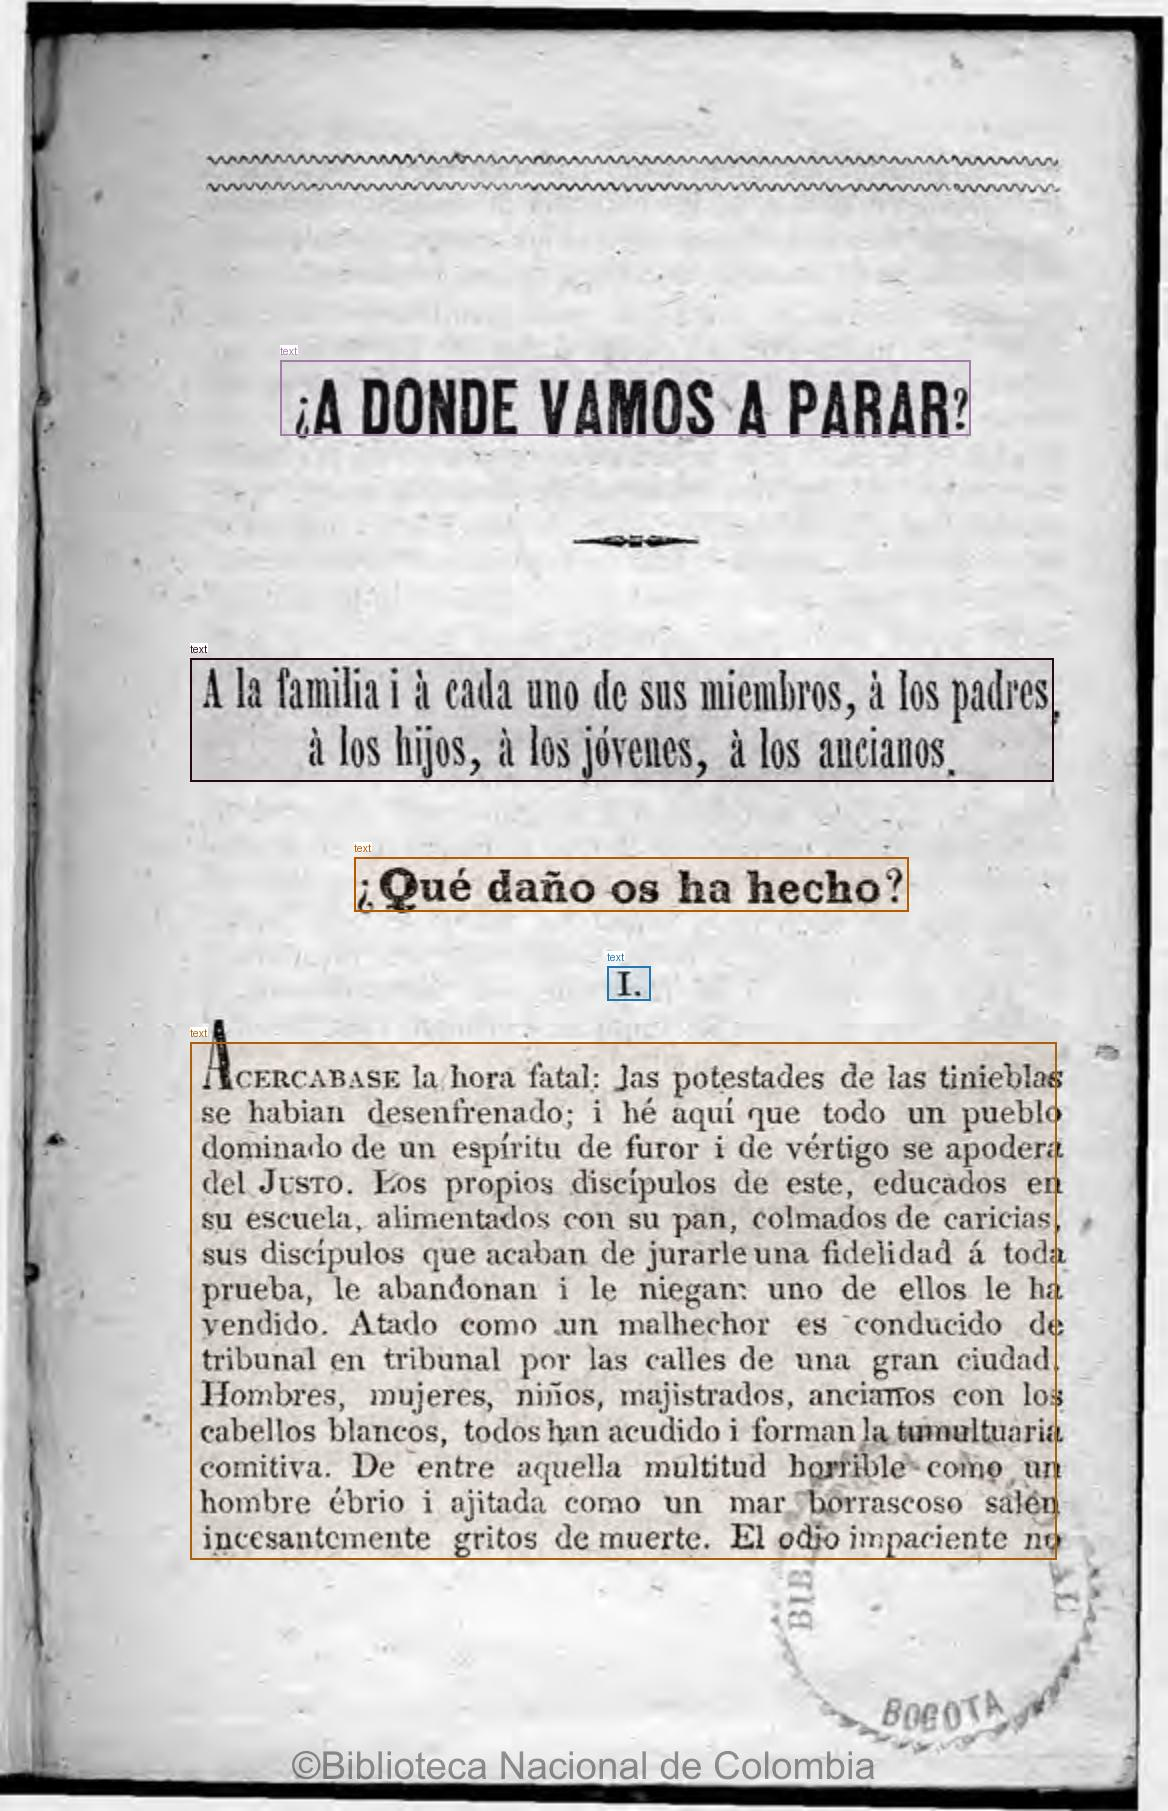
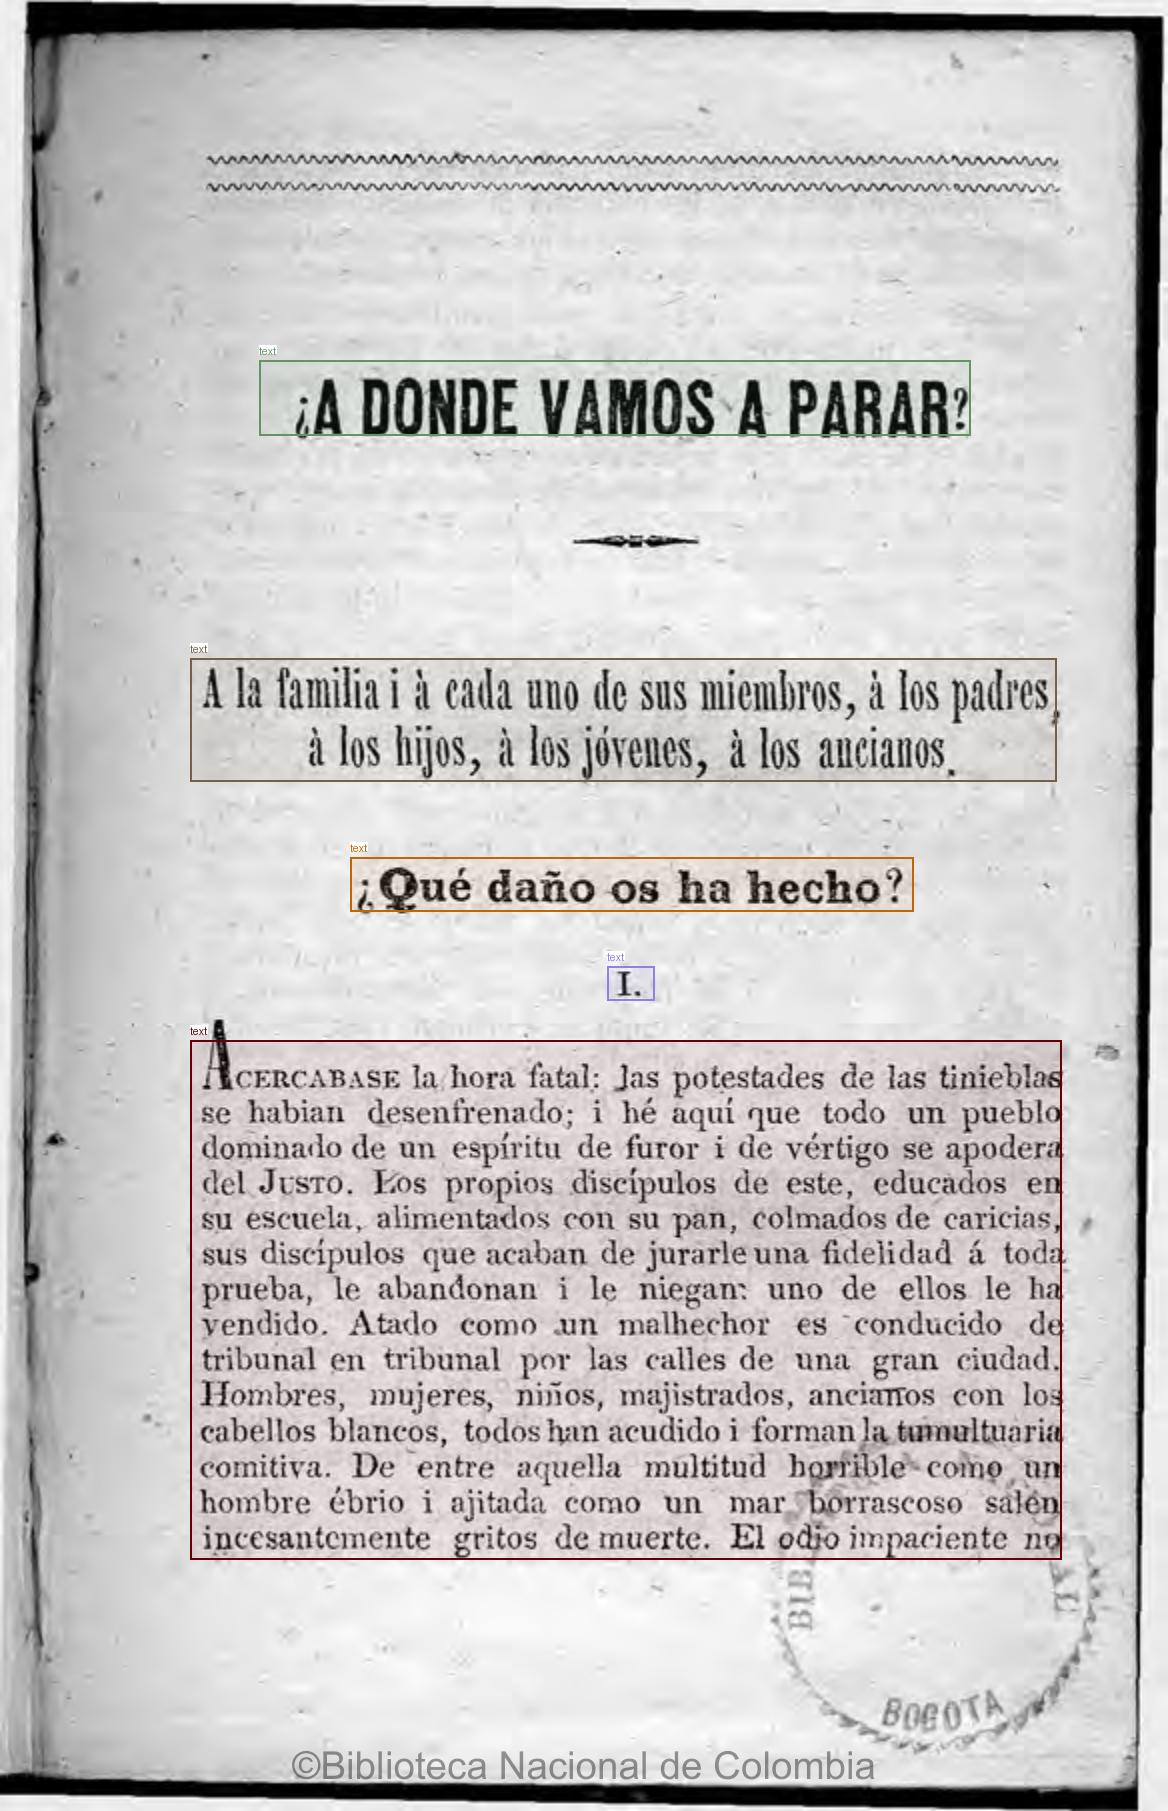
updated transcription with new prompt

diff --git a/reasonings/DeepSeek-OCR/pineda1_page_3.md b/reasonings/DeepSeek-OCR/pineda1_page_3.md
@@ -1,0 +1,49 @@
+---
+model: deepseek-OCR
+runtime: T4 GPU
+RAM: 9.4 / 12.7 GB
+GPU RAM: 5.6 / 15 GB
+Disk: 49.6 / 112.6 GB
+prompt: Convert the document to text and be as close to the original text as possible (including any typos, print errors, keeping the original grammar and spelling).
+time-reasoning: 42s
+attachement: images/pineda1/pineda1_page_3.png
+image size:  (1168, 1811)
+valid image tokens:  165
+output texts tokens (valid):  387
+compression ratio:  2.35
+---
+
+The attention mask and the pad token id were not set. As a consequence, you may observe unexpected behavior. Please pass your input's `attention_mask` to obtain reliable results.
+Setting `pad_token_id` to `eos_token_id`:None for open-end generation.
+The attention mask is not set and cannot be inferred from input because pad token is same as eos token. As a consequence, you may observe unexpected behavior. Please pass your input's `attention_mask` to obtain reliable results.
+The `seen_tokens` attribute is deprecated and will be removed in v4.41. Use the `cache_position` model input instead.
+`get_max_cache()` is deprecated for all Cache classes. Use `get_max_cache_shape()` instead. Calling `get_max_cache()` will raise error from v4.48
+The attention layers in this model are transitioning from computing the RoPE embeddings internally through `position_ids` (2D tensor with the indexes of the tokens), to using externally computed `position_embeddings` (Tuple of tensors, containing cos and sin). In v4.46 `position_ids` will be removed and `position_embeddings` will be mandatory.
+=====================
+BASE:  torch.Size([1, 256, 1280])
+NO PATCHES
+=====================
+0.0000000000000000000000000000000000000000000000000000000000000
+<|ref|>text<|/ref|><|det|>[[222, 199, 830, 240]]<|/det|>
+¿A DONDE VAMOS A PARAR? 
+
+<|ref|>text<|/ref|><|det|>[[163, 363, 904, 431]]<|/det|>
+A la familia i á cada uno de sus miembros, á los padres, á los hijos, á los jóvenes, á los ancianos. 
+
+<|ref|>text<|/ref|><|det|>[[300, 473, 781, 503]]<|/det|>
+¿Qué daño os ha hecho? 
+
+<|ref|>text<|/ref|><|det|>[[520, 533, 560, 552]]<|/det|>
+I. 
+
+<|ref|>text<|/ref|><|det|>[[163, 574, 908, 860]]<|/det|>
+A CERCABASE la hora fatal: Jas potestades de las tinieblas se habían desenfrenado; i hé aquí que todo un pueblo dominado de un espíritu de furor i de vértigo se apodera del Juzro. Eos propios discípulos de este, educados en su escuela, alimentados con su pan, colmados de caricias, sus discípulos que acaban de jurarle una fidelidad á toda prueba, le abandonan i le niegan: uno de ellos le ha vendido. Atado como un malhechor es conducido de tribunal en tribunal por las calles de una gran ciudad. Hombres, mujeres, niños, majistrados, ancianos con los cabellos blancos, todos han acudido i forman la tumultaria comitiva. De entre aquella multitud horrible como un hombre ébrio i ajitada como un mar borrascoso adén incesantemente gritos de muerte. El odio impaciente no
+==================================================
+image size:  (1168, 1811)
+valid image tokens:  165
+output texts tokens (valid):  387
+compression ratio:  2.35
+==================================================
+===============save results:===============
+image: 0it [00:00, ?it/s]
+other: 100%|██████████| 5/5 [00:00<00:00, 64329.82it/s]
